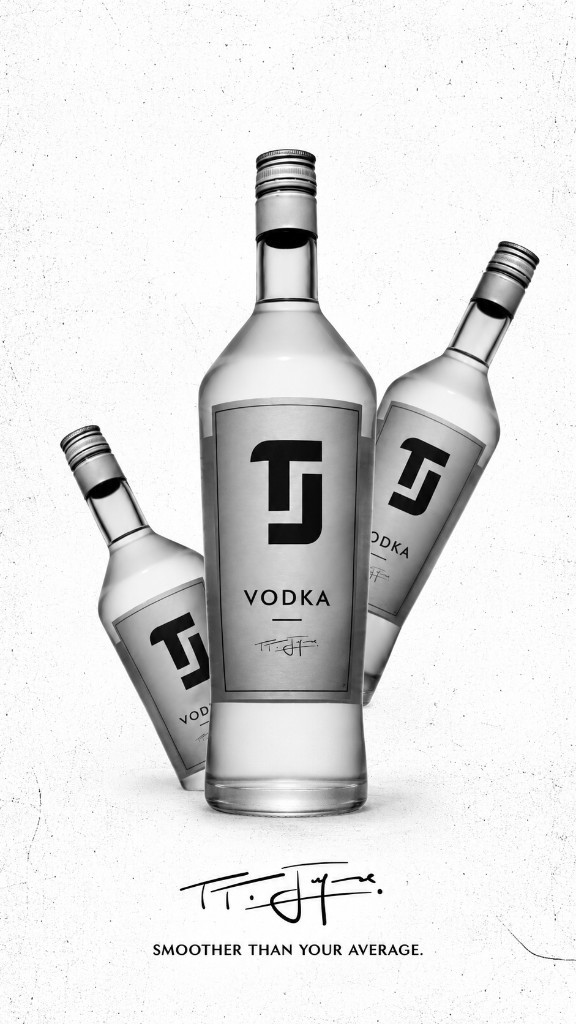
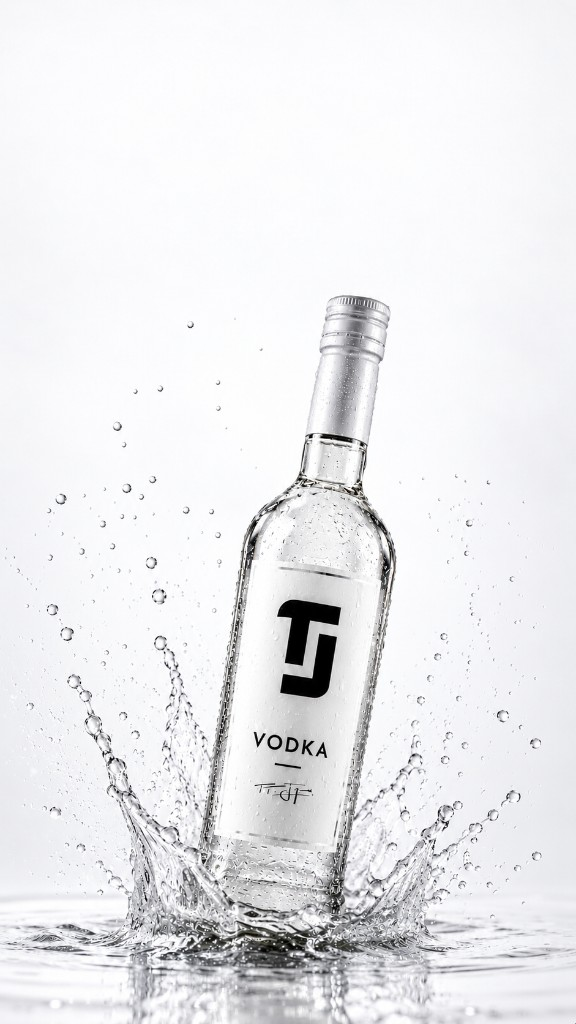
Replace the Original bottle and story background, and clear the hero tagline.

diff --git a/src/components/OurStorySection.tsx b/src/components/OurStorySection.tsx
@@ -10,75 +10,44 @@ export function OurStorySection() {
     <section
       id="story"
       aria-label="Our Story"
-      className="relative scroll-mt-16 flex h-[calc(100svh-4rem)] min-h-[540px] w-full flex-col justify-start md:justify-center overflow-hidden border-y border-[#080808]/15 bg-[#EFEFEF] pt-6 pb-8 md:py-10 text-[#080808]"
+      className="relative h-[calc(177.78vw+2.5rem)] w-full scroll-mt-16 overflow-hidden border-y border-[#080808]/15 bg-[#F4F4F4] text-[#080808] md:h-[56.25vw]"
     >
-      {/* Background Image (Desktop: wide right-aligned bottles; Mobile: 9:16 portrait 3-bottles + signature) */}
       <div
         data-media-slot="M03"
         aria-hidden="true"
-        className="pointer-events-none absolute inset-0 z-0 overflow-hidden bg-[#EFEFEF]"
+        className="pointer-events-none absolute inset-0 z-0"
       >
-        {/* Phone Viewport (< 768px): 9:16 portrait 3-bottles + founder signature background, anchored to bottom so signature is never cut off */}
         <img
-          src={bgSlot.mobileSrc ?? "/media/bw/m03-story-bg-mobile-bw.jpg"}
-          alt={bgSlot.alt}
+          src={bgSlot.mobileSrc ?? "/media/bw/m03-story-splash-mobile.jpg"}
+          alt=""
           width={576}
           height={1024}
-          className="bw-enforced-media block h-full w-full object-cover object-bottom md:hidden"
+          className="bw-enforced-media absolute inset-x-0 bottom-0 h-auto w-full object-contain object-bottom md:hidden"
         />
-
-        {/* Desktop & Laptop Viewport (>= 768px): Full-bleed paper texture + uncropped full-width 3 bottles & signature */}
         <img
           src={bgSlot.src}
-          alt=""
-          width={bgSlot.dimensions.width}
-          height={bgSlot.dimensions.height}
-          className="bw-enforced-media hidden h-full w-full object-cover object-left opacity-35 blur-[2px] md:block"
+          alt={bgSlot.alt}
+          width={1024}
+          height={576}
+          className="bw-enforced-media hidden h-full w-full object-contain object-right md:block"
         />
-        <div
-          className="hidden md:flex absolute inset-0 items-center justify-end overflow-hidden"
-          style={{
-            WebkitMaskImage:
-              "linear-gradient(180deg, transparent 0%, black 8%, black 92%, transparent 100%)",
-            maskImage:
-              "linear-gradient(180deg, transparent 0%, black 8%, black 92%, transparent 100%)",
-          }}
-        >
-          <img
-            src={bgSlot.src}
-            alt={bgSlot.alt}
-            width={bgSlot.dimensions.width}
-            height={bgSlot.dimensions.height}
-            className="bw-enforced-media h-full w-full object-contain object-right"
-          />
-        </div>
-
-        {/* Mobile top-to-bottom readability veil: keeps top copy crisp while revealing the 3 bottles & bottom signature cleanly */}
-        <div className="block md:hidden absolute inset-0 bg-[linear-gradient(180deg,rgba(243,243,243,0.84)_0%,rgba(243,243,243,0.74)_42%,rgba(243,243,243,0.14)_56%,transparent_68%)]" />
-
-        {/* Desktop left-side paper-tone readability veil so copy stays razor-sharp while keeping the 3 bottles & right signature 100% clear */}
-        <div className="hidden md:block absolute inset-0 bg-gradient-to-r from-[#EFEFEF]/95 via-[#EFEFEF]/75 via-38% to-transparent" />
       </div>
 
-      <div className="relative z-10 mx-auto w-full max-w-[1400px] px-6 md:px-12">
-        {/* Left Story Copy (Right-side image box removed so background bottles & signature shine through) */}
-        <div className="grid grid-cols-1 items-center md:grid-cols-12">
-          <div className="flex flex-col items-start md:col-span-6 lg:col-span-5">
-            {/* Highlighted "THE SPIRIT BEHIND THE LABEL" */}
-            <span className="inline-block bg-[#080808] px-3.5 py-1.5 font-sans text-[11px] font-semibold uppercase tracking-[0.26em] text-[#F5F5F5] shadow-[0_6px_18px_rgba(0,0,0,0.16)]">
-              THE SPIRIT BEHIND THE LABEL
-            </span>
+      <div className="relative z-10 flex h-full items-start px-6 pt-8 md:items-center md:px-12 md:pt-0">
+        <div className="flex w-full max-w-[34rem] flex-col items-start md:w-[46%] lg:w-[42%]">
+          <span className="inline-block bg-[#080808] px-3 py-1 font-sans text-[10px] font-semibold uppercase tracking-[0.26em] text-[#F5F5F5] shadow-[0_6px_18px_rgba(0,0,0,0.16)] md:px-3.5 md:py-1.5 md:text-[11px]">
+            THE SPIRIT BEHIND THE LABEL
+          </span>
 
-            <h2 className="mt-4 md:mt-5 font-serif text-[clamp(2.2rem,4.2vw,3.8rem)] font-normal leading-[1.04] tracking-[0.01em] text-[#080808]">
-              {SITE_CONTENT.ourStory.heading}
-            </h2>
+          <h2 className="mt-3 font-serif text-[clamp(1.7rem,7vw,2.4rem)] font-normal leading-[1.04] tracking-[0.01em] text-[#080808] md:mt-5 md:text-[clamp(2.2rem,4.2vw,3.8rem)]">
+            {SITE_CONTENT.ourStory.heading}
+          </h2>
 
-            <div className="mt-4 h-[1.5px] w-16 bg-[#080808]/65" />
+          <div className="mt-3 h-[1.5px] w-16 bg-[#080808]/65 md:mt-4" />
 
-            <p className="mt-4 max-w-md font-sans text-xs sm:text-sm md:text-[15px] font-medium leading-[1.75] text-[#141414]">
-              {SITE_CONTENT.ourStory.paragraph}
-            </p>
-          </div>
+          <p className="mt-3 max-w-md font-sans text-[11px] font-medium leading-[1.45] text-[#141414] sm:text-xs md:mt-4 md:text-[15px] md:leading-[1.75]">
+            {SITE_CONTENT.ourStory.paragraph}
+          </p>
         </div>
       </div>
     </section>

diff --git a/src/config/siteContent.ts b/src/config/siteContent.ts
@@ -105,26 +105,26 @@ export const MEDIA_SLOTS: Record<MediaSlotId, MediaAssetConfig> = {
   },
   M03: {
     slotId: "M03",
-    title: "Our Story Monochrome Campaign Background (Image 2)",
+    title: "Our Story single-bottle splash background",
     placement: "Page 1 · Section 03 Our Story Background",
     type: "image",
-    src: "/media/bw/m03-story-bg-image2-bw.jpg",
-    mobileSrc: "/media/bw/m03-story-bg-mobile-bw.jpg",
-    originalMasterSrc: "/media/originals/m03-story-bg-image2.jpg",
-    alt: "TJ Vodka monochrome background featuring three signature bottles, founder signature, and the slogan Smoother than your average",
-    fit: "cover",
+    src: "/media/bw/m03-story-splash-desktop.jpg",
+    mobileSrc: "/media/bw/m03-story-splash-mobile.jpg",
+    originalMasterSrc: "/media/originals/m03-story-splash-desktop.jpg",
+    alt: "One TJ Vodka bottle rising from a water splash, with open space for the story text",
+    fit: "contain",
     focalPoint: {
-      desktop: "65% 50%",
-      tablet: "62% 50%",
-      mobile: "50% 50%",
+      desktop: "100% 50%",
+      tablet: "100% 50%",
+      mobile: "50% 100%",
     },
     dimensions: {
       width: 1024,
-      height: 379,
+      height: 576,
     },
     allowVideoReplacement: false,
     statusNote:
-      "Clean Image 2 monochrome background with three bottles and signature on the right (desktop) and 9:16 portrait layout (mobile).",
+      "Desktop 1024×576 landscape keeps the single bottle on the right. Phone 576×1024 portrait keeps the single bottle below the text.",
   },
   M04: {
     slotId: "M04",
@@ -132,9 +132,8 @@ export const MEDIA_SLOTS: Record<MediaSlotId, MediaAssetConfig> = {
     placement: "Page 1 · Section 02 The Vodka (left-hand product showcase)",
     type: "image",
     src: "/media/bw/m04-bottle-clean.png",
-    webpSrc: "/media/bw/m01-bottle-cutout.webp",
-    originalMasterSrc: "/media/originals/m04-image-4-serve-composite.jpg",
-    alt: "TJ Vodka 70cl signature bottle studio cutout",
+    originalMasterSrc: "/media/originals/m04-bottle-clean-master.jpg",
+    alt: "Upright TJ Vodka Original 70cl bottle with the black TJ monogram, VODKA label, and handwritten signature",
     fit: "contain",
     focalPoint: {
       desktop: "50% 50%",
@@ -142,12 +141,12 @@ export const MEDIA_SLOTS: Record<MediaSlotId, MediaAssetConfig> = {
       mobile: "50% 50%",
     },
     dimensions: {
-      width: 809,
-      height: 1924,
+      width: 339,
+      height: 993,
     },
     allowVideoReplacement: false,
     statusNote:
-      "Replaced temporary Image 4 composite (which contained a glass and unverified distributor badge) with the clean 1924px tall studio bottle cutout.",
+      "Clean 3D Original bottle render. White studio background removed; cap, label, signature, and base are uncropped.",
   },
   M05: {
     slotId: "M05",

diff --git a/src/components/HeroProductStage.tsx b/src/components/HeroProductStage.tsx
@@ -158,19 +158,6 @@ export function HeroProductStage() {
         <div className="relative z-10 mx-auto flex w-full max-w-[1400px] flex-col items-center justify-center px-6 md:px-12">
           {/* Slogan (Luxury Spirit Typography), Subtitle & Primary/Secondary CTAs */}
           <div className="relative z-30 mt-2 sm:mt-3 flex max-w-2xl flex-col items-center text-center">
-            {/* Luxury Distillery Crest Divider */}
-            <div
-              aria-hidden="true"
-              style={{ opacity: 0 }}
-              className="hero-intro-copy mb-1.5 flex items-center justify-center gap-3"
-            >
-              <span className="h-[1px] w-8 sm:w-12 bg-gradient-to-r from-transparent to-[#BDBDBD]/60" />
-              <span className="font-cinzel text-[9px] uppercase tracking-[0.34em] text-[#BDBDBD]">
-                ◆ Signature Italian Spirit ◆
-              </span>
-              <span className="h-[1px] w-8 sm:w-12 bg-gradient-to-l from-transparent to-[#BDBDBD]/60" />
-            </div>
-
             {/* Slogan in Jost Medium */}
             <h1
               style={{ opacity: 0 }}
@@ -188,7 +175,7 @@ export function HeroProductStage() {
 
             <div
               style={{ opacity: 0 }}
-              className="hero-intro-copy mt-3.5 sm:mt-4 flex flex-wrap items-center justify-center gap-3 sm:gap-5"
+              className="hero-intro-copy mt-3 flex flex-wrap items-center justify-center gap-3 sm:gap-5"
             >
               <a
                 href={SITE_CONTENT.hero.primaryCta.href}
@@ -209,7 +196,7 @@ export function HeroProductStage() {
         </div>
 
         {/* Bottom Scroll Cue */}
-        <div className="relative z-20 mx-auto flex w-full max-w-[1400px] items-center justify-center px-6 md:px-12">
+        <div className="relative z-20 mx-auto mt-4 flex w-full max-w-[1400px] shrink-0 items-center justify-center px-6 pb-1 md:px-12">
           <a
             href="#vodka"
             onClick={handleScrollToVodka}
